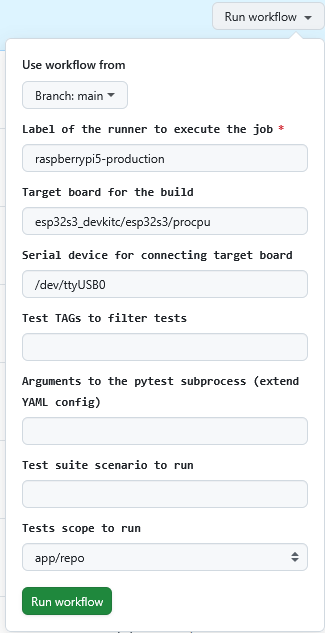
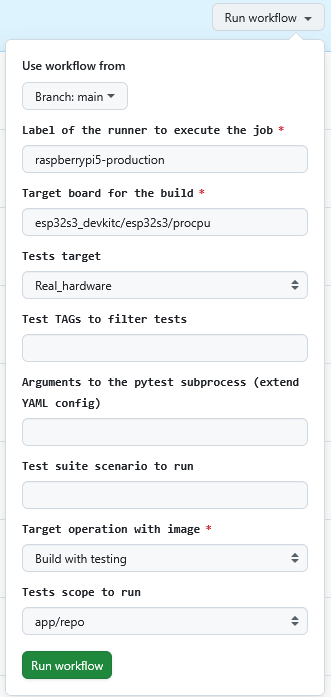
Update documentation for new dispatch option Tests target

diff --git a/documentation/Github_workflow_dispatch_panel.md b/documentation/Github_workflow_dispatch_panel.md
@@ -60,7 +60,7 @@ Workflow dispatch panel allows to use 4 types of inputs: `string`, `choice`, `bo
         </tr>
         <tr><td>Label of the runner to execute the job</td><td><a href="https://docs.github.com/en/actions/how-tos/manage-runners/self-hosted-runners/apply-labels">GitHub runner</a> on which the workflow jobs running. It can be GitHub-hosted runner (not recommended due to the restricted quota) or self-hosted runner (must be registered and pre-installed in advance).</td><td>String with runner-label matching the registered runner in GitHub. Only 1 single string is allowed!<br /><br /><strong>[STRING]</strong><br /><strong>Default = raspberrypi5-production</strong><br /><strong>Example = vmware-test</strong></td></tr>
         <tr><td>Target board for the build</td><td>Target board Zephyr qualifier (Device Under Test = DUT): The set of additional tokens, separated by a forward slash (<code>/</code>) that follow the <a href="https://docs.zephyrproject.org/latest/glossary.html#term-board-name">board name</a> (and optionally <a href="https://docs.zephyrproject.org/latest/glossary.html#term-board-revision">board revision</a>) to form the <a href="https://docs.zephyrproject.org/latest/glossary.html#term-board-target">board target</a>. The currently accepted qualifiers are <a href="https://docs.zephyrproject.org/latest/glossary.html#term-SoC">SoC</a>, <a href="https://docs.zephyrproject.org/latest/glossary.html#term-CPU-cluster">CPU cluster</a> and <a href="https://docs.zephyrproject.org/latest/glossary.html#term-variant">variant</a>. See <a href="https://docs.zephyrproject.org/latest/hardware/porting/board_porting.html#board-terminology">Board terminology</a> in Zephyr RTOS for additional details.</td><td>Target platform/board qualifier to be build &amp; tested. Only 1 single string is allowed!<br /><br /><strong>[STRING]</strong><br /><strong>Default = esp32s3_devkitc/esp32s3/procpu</strong><br /><strong>Example = nrf5340dk/nrf5340/cpuapp</strong></td></tr>
-        <tr><td>Serial device for connecting target board</td><td>Serial port in OS where the DUT is connected to. Depends on the host operating system.</td><td>Serial port for connection the DUT. Only 1 single string is allowed!<br /><br /><strong>[STRING]</strong><br /><strong>Default = /dev/ttyUSB0</strong><br /><strong>Example = /dev/ttyACM0&nbsp;</strong></td></tr>
+        <tr><td>Tests target</td><td>Target of executed test - real hardware or simulation/emuation without flasing to real board. It has the impact on using west twister command arguments <code>--device-testing, --device-serial, --flash-before</code> (omitted in case of Simulation/Emulation).</td><td><strong>[CHOICE]</strong><br /><strong>Default = Real_hardware</strong><br /><strong>Example = Simulation_Emulation</strong></td></tr>
         <tr><td>Test TAGs to filter tests</td><td><p><a href="https://docs.zephyrproject.org/latest/develop/test/twister.html">Test tag(s)</a> - tags to restrict which tests to run by tag value. Default is to not do any tag filtering. &nbsp;Multiple invocations are treated as a logical 'or' relationship. Test tags are located in sample.yaml or testcase.yaml files within the tests-section.&nbsp;<br /><strong>Example:</strong></p>tests:
         testing.ztest.base.verbose_0_userspace:
           filter: CONFIG_ARCH_HAS_USERSPACE
@@ -88,6 +88,7 @@ Workflow dispatch panel allows to use 4 types of inputs: `string`, `choice`, `bo
       platform_allow:
   - esp32_devkitc/esp32/procpu</code>
           </td><td><p>Test scenario name to filter when running the testcase. Only 1 single string is allowed!<br /><strong>Note:&nbsp;</strong><br />to find the demanded test scenario faster in search process, select the root-folder where the scenario exists in "Test scope to run" option.</p><p><strong>[STRING]</strong><br /><strong>Default = N/A</strong><br /><strong>Example = esp.wifi.sec.wpa2</strong></p></td></tr>
+          <tr><td>Target operation with image</td><td>BAsed on selected option only the BUILD workflow ["Build only"], or both BUILD with TESTING workflows are triggered ["Build with testing"].</td><td><strong>[CHOICE]</strong><br /><strong>Default = Build with testing</strong><br /><strong>Example = Build only</strong></td></tr>
           <tr><td>Tests scope to run</td><td><p>Select the target folder, where the search proces looks for all test suites located there to run. Test suite is identified by existing project file prj.conf.</p><p>In case the Test suite scenario parameter is used, the selected folder path is assigned to argument <strong>"--testsuite-root"</strong> in twister command and thus the searching for demanded scenarion is faster. In this case only demanded test scenario is selected to run with twister command and other test suites/test cases are ignored!</p><p>Mapping UI field -&gt; GitHub application folder (note that the native Zephyr RTOS tests in zephyr/tests/ workspace can be selected too): &nbsp;</p>
           <code>app/repo -&gt; __w/antoskape-project/antoskape-project/customer-application/tests/repo_tests</code><br/>
           <br/>
